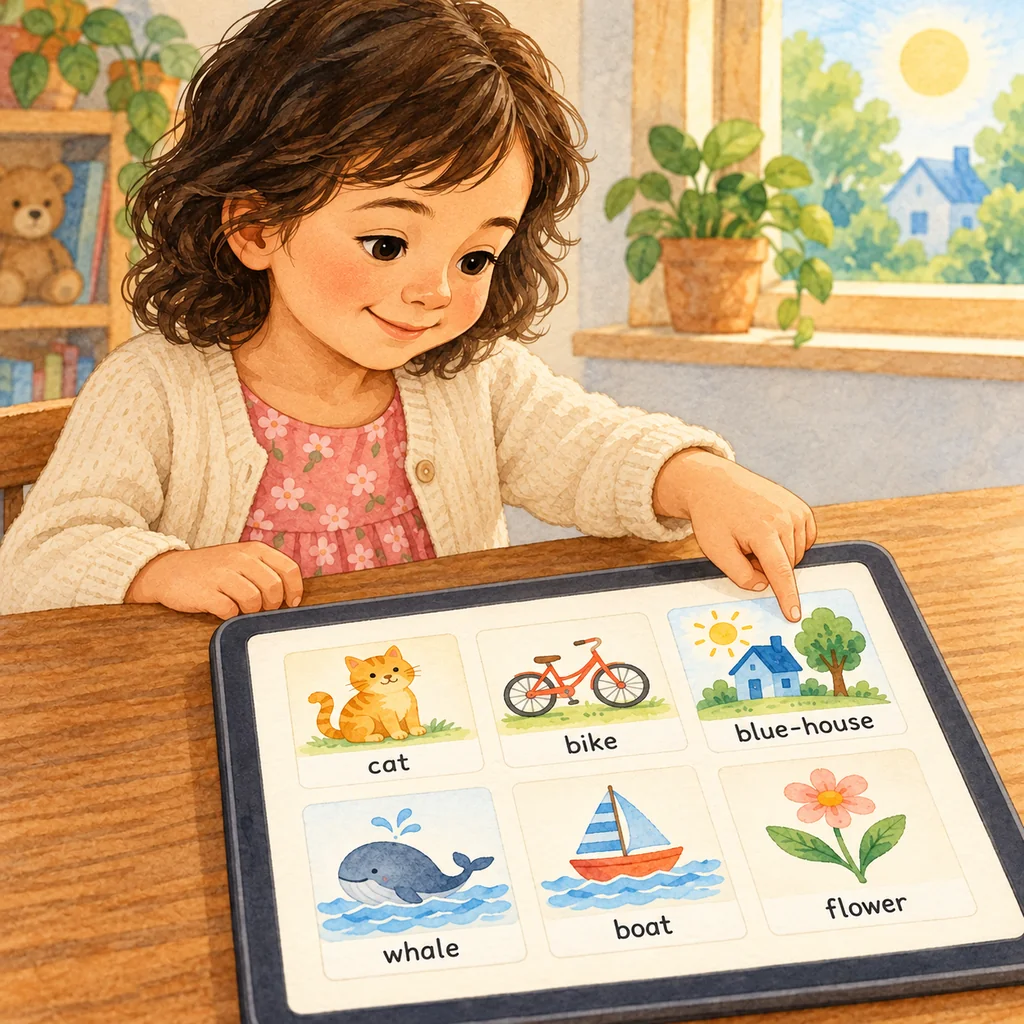
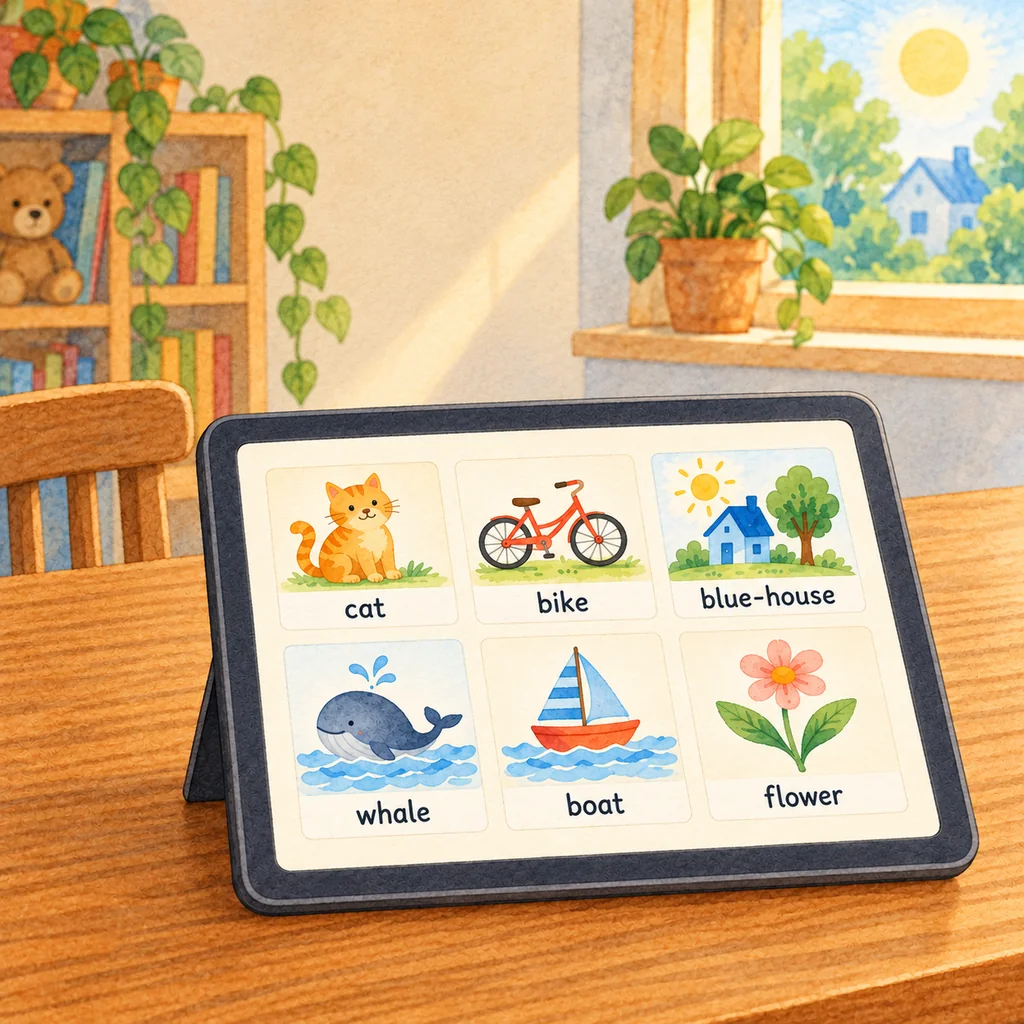
Test Hub: refresh test-apps/computer-books-art/,  — staged only, no service worker
Deployed by scripts/deploy-testhub.sh: source and destination checkouts verified
by scripts/assert-checkout.sh, staged tree proven worker-free, scope audited to
test-apps/ only. Production untouched.

diff --git a/test-apps/computer-books-art/shelf/shelf.css b/test-apps/computer-books-art/shelf/shelf.css
@@ -9,14 +9,14 @@
   font-style: normal;
   font-weight: 400 900;
   font-display: swap;
-  src: url(../reader/fonts/Nunito-latin.woff2?v=8443834a4-20261014152137) format('woff2');
+  src: url(../reader/fonts/Nunito-latin.woff2?v=aa2d6f512-20261014180018) format('woff2');
 }
 @font-face {
   font-family: 'Fredoka One';
   font-style: normal;
   font-weight: 400;
   font-display: swap;
-  src: url(../reader/fonts/FredokaOne-latin.woff2?v=8443834a4-20261014152137) format('woff2');
+  src: url(../reader/fonts/FredokaOne-latin.woff2?v=aa2d6f512-20261014180018) format('woff2');
 }
 
 :root {
@@ -69,7 +69,7 @@ body { overflow-x: hidden; }
   z-index: 0;
   pointer-events: none;
   background:
-    url(./bg-portrait.webp?v=8443834a4-20261014152137) center bottom / cover no-repeat,
+    url(./bg-portrait.webp?v=aa2d6f512-20261014180018) center bottom / cover no-repeat,
     radial-gradient(ellipse at 50% 18%, #fdf7ea 0%, rgba(253, 247, 234, 0) 60%),
     repeating-linear-gradient(90deg, rgba(185, 133, 82, .045) 0 2px, transparent 2px 120px),
     linear-gradient(#f9f1df, #efe2c6);
@@ -77,7 +77,7 @@ body { overflow-x: hidden; }
 @media (orientation: landscape) {
   .wall {
     background:
-      url(./bg-landscape.webp?v=8443834a4-20261014152137) center bottom / cover no-repeat,
+      url(./bg-landscape.webp?v=aa2d6f512-20261014180018) center bottom / cover no-repeat,
       radial-gradient(ellipse at 50% 18%, #fdf7ea 0%, rgba(253, 247, 234, 0) 60%),
       repeating-linear-gradient(90deg, rgba(185, 133, 82, .045) 0 2px, transparent 2px 120px),
       linear-gradient(#f9f1df, #efe2c6);

diff --git a/test-apps/computer-books-art/reader/index.html b/test-apps/computer-books-art/reader/index.html
@@ -4,8 +4,8 @@
 <meta charset="utf-8">
 <meta name="viewport" content="width=device-width,initial-scale=1,viewport-fit=cover">
 <title>Reading Tree</title>
-<link rel="stylesheet" href="./reader.css?v=8443834a4-20261014152137">
-<script src="./js/tap-zoom-guard.js?v=8443834a4-20261014152137"></script>
+<link rel="stylesheet" href="./reader.css?v=aa2d6f512-20261014180018">
+<script src="./js/tap-zoom-guard.js?v=aa2d6f512-20261014180018"></script>
 </head>
 <body>
 <main class="book" id="book" aria-live="off">
@@ -54,12 +54,12 @@
   </section>
 </main>
 <p class="load-error" id="load-error" hidden>This book could not be opened.</p>
-<script src="./js/narration-mode.js?v=8443834a4-20261014152137"></script>
-<script src="./reader.js?v=8443834a4-20261014152137"></script>
+<script src="./js/narration-mode.js?v=aa2d6f512-20261014180018"></script>
+<script src="./reader.js?v=aa2d6f512-20261014180018"></script>
 <script>
 // Offline worker, published copy only: a Test Hub copy has it stripped (testhub-service-worker.py).
 if ('serviceWorker' in navigator && location.protocol.indexOf('http') === 0) {
-  addEventListener('load', function () { void 0; /* staging: no service worker */ });
+  addEventListener('load', function () { Promise.resolve(); });
 }
 </script>
 </body>

diff --git a/test-apps/computer-books-art/index.html b/test-apps/computer-books-art/index.html
@@ -4,8 +4,8 @@
 <meta charset="utf-8">
 <meta name="viewport" content="width=device-width,initial-scale=1,viewport-fit=cover">
 <title>Bookshelf</title>
-<link rel="stylesheet" href="./shelf/shelf.css?v=8443834a4-20261014152137">
-<script src="./shelf/tap-zoom-guard.js?v=8443834a4-20261014152137"></script>
+<link rel="stylesheet" href="./shelf/shelf.css?v=aa2d6f512-20261014180018">
+<script src="./shelf/tap-zoom-guard.js?v=aa2d6f512-20261014180018"></script>
 </head>
 <body>
 <div class="wall" aria-hidden="true"></div>
@@ -18,11 +18,11 @@
 </header>
 <main class="shelves" id="shelves" aria-label="Books"></main>
 <p class="load-error" id="load-error" hidden>The bookshelf could not be opened.</p>
-<script src="./shelf/shelf.js?v=8443834a4-20261014152137"></script>
+<script src="./shelf/shelf.js?v=aa2d6f512-20261014180018"></script>
 <script>
 // Offline worker, published copy only: a Test Hub copy has it stripped (testhub-service-worker.py).
 if ('serviceWorker' in navigator && location.protocol.indexOf('http') === 0) {
-  addEventListener('load', function () { void 0; /* staging: no service worker */ });
+  addEventListener('load', function () { Promise.resolve(); });
 }
 </script>
 </body>

diff --git a/test-apps/computer-books-art/reader/reader.css b/test-apps/computer-books-art/reader/reader.css
@@ -6,14 +6,14 @@
   font-style: normal;
   font-weight: 400 900;
   font-display: swap;
-  src: url(./fonts/Nunito-latin.woff2?v=8443834a4-20261014152137) format('woff2');
+  src: url(./fonts/Nunito-latin.woff2?v=aa2d6f512-20261014180018) format('woff2');
 }
 @font-face {
   font-family: 'Fredoka One';
   font-style: normal;
   font-weight: 400;
   font-display: swap;
-  src: url(./fonts/FredokaOne-latin.woff2?v=8443834a4-20261014152137) format('woff2');
+  src: url(./fonts/FredokaOne-latin.woff2?v=aa2d6f512-20261014180018) format('woff2');
 }
 
 :root {
